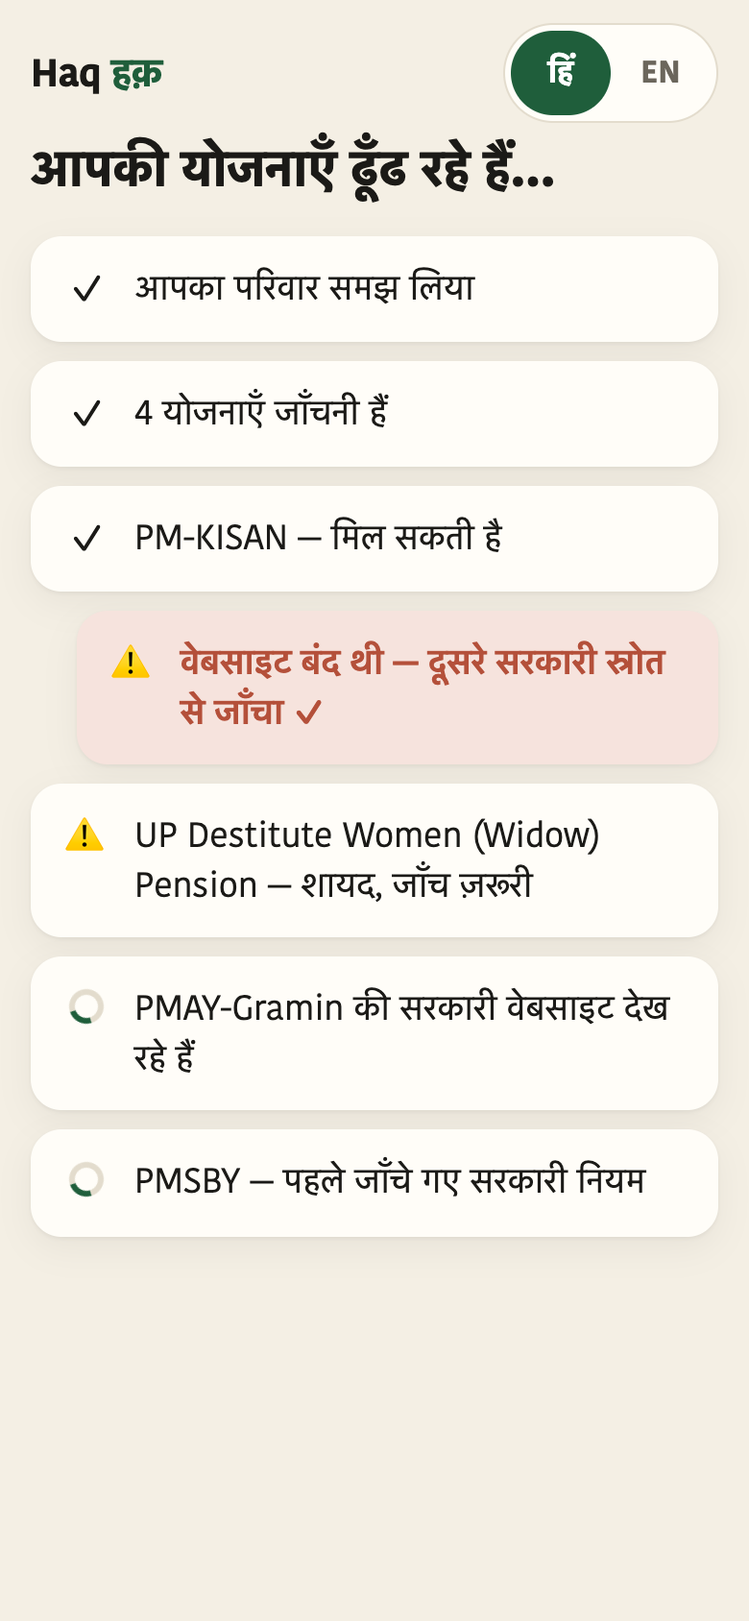
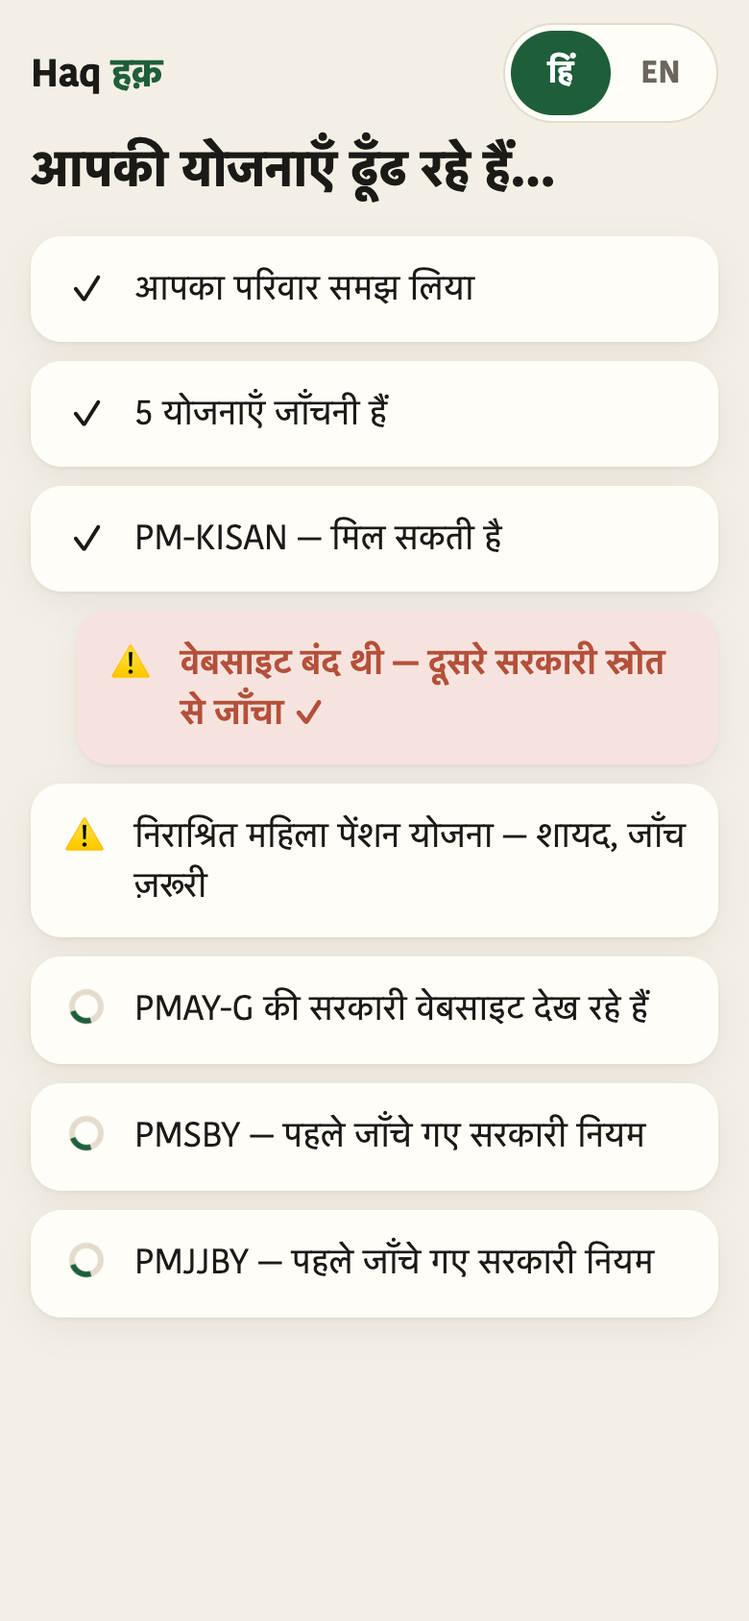
Results polish: 'up to' headline, official Hindi scheme names, insurance as Protection
1. Headline leads with the total including likely-eligible, with the split
   always shown underneath:
   hi: 'आपके परिवार का ₹X/साल तक का हक़ बाकी है' + '₹A पक्का · ₹B जाँच के बाद'
   en: 'Up to ₹X/year your family is owed' + '₹A confirmed · ₹B after checks'
   Read-aloud says the same sentence and split. The spoken-summary
   instructions use the same framing.
2. Official Hindi scheme names in Hindi mode on cards and in the working
   checklist (catalog.DISPLAY_NAMES, e.g. निराश्रित महिला पेंशन योजना);
   acronyms kept as-is (PM-KISAN, PMAY-G, PMSBY, PMJJBY).
3. PMSBY / PMJJBY are costs, not money owed: excluded from every total
   (write() and, for results saved earlier, recomputed in present._view), and
   shown in a separate सुरक्षा / Protection section with premium and cover
   (₹20/yr -> ₹2 lakh accident; ₹436/yr -> ₹2 lakh life, per jansuraksha.gov.in).

Re-screenshotted all screens in both languages (stub server, no API calls).
Layout report: 15/15 clean, 0 console errors.

Entire-Checkpoint: 01M4MRDNJT1A5BZPXY4EEYW53W

Changed region(s): [[0.0308, 0.5853, 0.9538, 0.8009], [0.1846, 0.4929, 0.9231, 0.5545], [0.1846, 0.2464, 0.2154, 0.2773]]

diff --git a/static/index.html b/static/index.html
@@ -120,7 +120,17 @@
   .headline .l { font-size: 20px; opacity: .92; }
   .headline .amt { font-size: 52px; font-weight: 800; line-height: 1.05; margin: 6px 0; letter-spacing: -.02em; font-family: var(--font-en); }
   .headline .l2 { font-size: 20px; }
-  .headline .more { margin-top: 10px; font-size: 17px; background: rgba(255,255,255,.14); border-radius: 12px; padding: 8px 12px; }
+  .headline .amt .unit { font-size: 22px; font-weight: 700; margin-left: 4px; letter-spacing: 0; }
+  .headline .split { margin-top: 12px; font-size: 18px; font-weight: 600; background: rgba(255,255,255,.14);
+                     border-radius: 12px; padding: 8px 12px; }
+  .section-head { margin: 30px 4px 4px; }
+  .section-head h2 { margin: 0; font-size: 24px; }
+  .section-head p { margin: 4px 0 0; color: var(--muted); font-size: 16px; }
+  .cover { display: flex; flex-wrap: wrap; gap: 8px; align-items: center; margin: 12px 0 6px; }
+  .cover .pay, .cover .get { border-radius: 12px; padding: 6px 12px; font-weight: 700; font-size: 18px; font-family: var(--font-en); }
+  html[lang="hi"] .cover .pay, html[lang="hi"] .cover .get { font-family: var(--font-hi); }
+  .cover .pay { background: var(--warn-soft); color: var(--warn); }
+  .cover .get { background: var(--accent-soft); color: var(--accent); }
   .headline .speak { position: absolute; top: 16px; right: 16px; background: rgba(255,255,255,.18); color: #fff; }
   .scheme { margin-top: 14px; padding: 18px; }
   .scheme-top { display: flex; gap: 12px; align-items: flex-start; }
@@ -220,10 +230,10 @@
   <section class="screen" id="s-results">
     <div class="headline">
       <button class="speak" id="sayHeadline" aria-label="read aloud">🔊</button>
-      <div class="l" data-t="missingA"></div>
-      <div class="amt" id="amt"></div>
-      <div class="l2" data-t="missingB"></div>
-      <div class="more hidden" id="more"></div>
+      <div class="l" id="headA"></div>
+      <div class="amt"><span id="amt"></span><span class="unit" id="amtUnit"></span></div>
+      <div class="l2" id="headB"></div>
+      <div class="split" id="split"></div>
     </div>
     <div id="cards"></div>
     <div class="bottom">
@@ -245,8 +255,11 @@ const T = {
     listening: "सुन रहा हूँ…", heardNothing: "सुनाई नहीं दिया — फिर से दबाइए", noMic: "इस ब्राउज़र में माइक नहीं चलता — नीचे लिखिए",
     whoLives: "घर में कौन-कौन है? छूकर जोड़िए", income: "परिवार की कमाई",
     working: "आपकी योजनाएँ ढूँढ रहे हैं…", retry: "फिर से कोशिश करें",
-    missingA: "आपका परिवार हर साल", missingB: "नहीं ले रहा है",
-    moreIf: (x) => `+ ${x} तक और, जाँच के बाद`,
+    headA: "आपके परिवार का", unit: "/साल तक", headB: "का हक़ बाकी है",
+    split: (a, b) => b ? `${a} पक्का · ${b} जाँच के बाद` : `${a} पक्का`,
+    protection: "सुरक्षा", protectionNote: "बीमा: आप छोटा प्रीमियम भरते हैं, मुसीबत में परिवार को पैसा मिलता है। यह ऊपर की रकम में नहीं जुड़ा।",
+    premium: (x) => `आप भरें: ${x}/साल`, cover: (x, kind) => `${kind === "life" ? "जीवन बीमा" : "दुर्घटना बीमा"}: ${x}`,
+    sayProtection: (c, pay, get) => `${c.name}. ${c.member} के लिए. ${pay}. ${get}. ${c.benefit}. आवेदन: ${c.where_to_apply}`,
     ask: "🎤 कुछ पूछना है?", newFamily: "नया परिवार", step: (i, n) => `सवाल ${i} / ${n}`,
     confirmed: "✓ पक्का (सरकारी स्रोत)", check: "जाँच ज़रूरी:", have: "पहले से मिल रही",
     perYear: "/ साल", whereApply: "कहाँ आवेदन करें", openSite: "वेबसाइट खोलें →", source: "सरकारी स्रोत ↗",
@@ -263,7 +276,7 @@ const T = {
     checks: { income_limit: "आय सीमा", income: "परिवार की कमाई", ration_card: "राशन कार्ड", area: "गाँव या शहर",
               house: "घर कच्चा या पक्का", land: "ज़मीन किसके नाम", lpg: "गैस कनेक्शन", age: "उम्र", disability: "विकलांगता प्रमाण पत्र" },
     sayCard: (c, money, check) => `${c.name}. ${c.member} के लिए. ${money ? money + ' हर साल. ' : ''}${check}${c.benefit}. ज़रूरी कागज़: ${c.documents.join(', ')}. आवेदन: ${c.where_to_apply}`,
-    sayHeadline: (x) => `आपका परिवार हर साल ${x} नहीं ले रहा है.`,
+    sayHeadline: (x, a, b) => `आपके परिवार का ${x} प्रति साल तक का हक़ बाकी है. ${b ? `${a} पक्का, ${b} जाँच के बाद.` : `${a} पक्का.`}`,
   },
   en: {
     promise: "Government schemes your family is owed",
@@ -273,8 +286,11 @@ const T = {
     listening: "Listening…", heardNothing: "Didn't catch that — tap again", noMic: "Mic not available in this browser — type below",
     whoLives: "Who lives in your home? Tap to add", income: "Family income",
     working: "Finding your schemes…", retry: "Try again",
-    missingA: "Your family is missing", missingB: "every year",
-    moreIf: (x) => `+ up to ${x} more once checked`,
+    headA: "Up to", unit: "/year", headB: "your family is owed",
+    split: (a, b) => b ? `${a} confirmed · ${b} after checks` : `${a} confirmed`,
+    protection: "Protection", protectionNote: "Insurance: you pay a small premium, your family gets money if something happens. Not counted in the amount above.",
+    premium: (x) => `You pay: ${x}/year`, cover: (x, kind) => `${kind === "life" ? "Life cover" : "Accident cover"}: ${x}`,
+    sayProtection: (c, pay, get) => `${c.name}. For ${c.member}. ${pay}. ${get}. ${c.benefit}. Apply: ${c.where_to_apply}`,
     ask: "🎤 Have a question?", newFamily: "New family", step: (i, n) => `Question ${i} of ${n}`,
     confirmed: "✓ Confirmed (official source)", check: "Check needed:", have: "Already receiving",
     perYear: "/ year", whereApply: "Where to apply", openSite: "Open website →", source: "Official source ↗",
@@ -291,7 +307,7 @@ const T = {
     checks: { income_limit: "income limit", income: "family income", ration_card: "ration card", area: "village or town",
               house: "house type", land: "land ownership", lpg: "gas connection", age: "age", disability: "disability certificate" },
     sayCard: (c, money, check) => `${c.name}. For ${c.member}. ${money ? money + ' every year. ' : ''}${check}${c.benefit}. Documents: ${c.documents.join(', ')}. Apply: ${c.where_to_apply}`,
-    sayHeadline: (x) => `Your family is missing ${x} every year.`,
+    sayHeadline: (x, a, b) => `Up to ${x} a year your family is owed. ${b ? `${a} confirmed, ${b} after checks.` : `${a} confirmed.`}`,
   },
 };
 const ROLES = [
@@ -525,15 +541,34 @@ $("retry").onclick = async () => { await api(`/api/households/${hid}/run`, {}); 
 const rupee = (n) => "₹" + Number(n || 0).toLocaleString("en-IN");
 function docIcon(t) { const m = DOC_ICONS.find(([re]) => re.test(t)); return m ? m[1] : "📄"; }
 function checkText(c) { return c.check_needed.map(k => L().checks[k] || k).join(", "); }
-function headlineSpeech(r) { return L().sayHeadline(rupee(r.total_missing_inr_per_year)) + " " + r.summary; }
+const lakh = (n) => n >= 100000 ? `₹${(n / 100000).toLocaleString("en-IN")} ${lang === "en" ? "lakh" : "लाख"}` : rupee(n);
+function totals(r) {
+  const a = r.total_missing_inr_per_year || 0, b = r.likely_extra_inr_per_year || 0;
+  return { a, b, x: r.owed_up_to_inr_per_year ?? a + b };
+}
+// Read-aloud says exactly what the headline shows.
+function headlineSpeech(r) { const t = totals(r); return L().sayHeadline(rupee(t.x), rupee(t.a), t.b ? rupee(t.b) : ""); }
 function renderResults(r, say) {
   lastResult = r; show("s-results");
-  $("amt").textContent = rupee(r.total_missing_inr_per_year);
-  const more = r.likely_extra_inr_per_year || 0;
-  $("more").classList.toggle("hidden", !more); $("more").textContent = more ? L().moreIf(rupee(more)) : "";
+  const t = totals(r);
+  $("headA").textContent = L().headA; $("headB").textContent = L().headB;
+  $("amt").textContent = rupee(t.x); $("amtUnit").textContent = L().unit;
+  $("split").textContent = L().split(rupee(t.a), t.b ? rupee(t.b) : "");
   const box = $("cards"); box.innerHTML = "";
-  if (!r.cards.length) { const p = document.createElement("div"); p.className = "card scheme"; p.textContent = L().none; box.appendChild(p); }
-  r.cards.forEach(c => {
+  const money = r.cards.filter(c => c.category !== "protection"), protection = r.cards.filter(c => c.category === "protection");
+  if (!money.length) { const p = document.createElement("div"); p.className = "card scheme"; p.textContent = L().none; box.appendChild(p); }
+  money.forEach(c => box.appendChild(schemeCard(c)));
+  if (protection.length) {
+    const head = document.createElement("div"); head.className = "section-head";
+    const h = document.createElement("h2"); h.textContent = "🛡 " + L().protection;
+    const p = document.createElement("p"); p.textContent = L().protectionNote;
+    head.append(h, p); box.appendChild(head);
+    protection.forEach(c => box.appendChild(schemeCard(c)));
+  }
+  $("answer").classList.add("hidden");
+  if (say) speak(headlineSpeech(r));
+}
+function schemeCard(c) {
     const el = document.createElement("article"); el.className = "card scheme";
     const top = document.createElement("div"); top.className = "scheme-top";
     const em = document.createElement("div"); em.className = "emoji"; em.textContent = c.emoji;
@@ -541,8 +576,17 @@ function renderResults(r, say) {
     const h3 = document.createElement("h3"); h3.textContent = c.name;
     const who = document.createElement("div"); who.className = "who"; who.textContent = `${L().forWho} ${c.member}`;
     head.append(h3, who); top.append(em, head); el.appendChild(top);
-    const money = c.annual_value_inr ? `${rupee(c.annual_value_inr)} ${L().perYear}` : "";
+    const prot = c.category === "protection" && c.protection;
+    const money = !prot && c.annual_value_inr ? `${rupee(c.annual_value_inr)} ${L().perYear}` : "";
     if (money) { const m = document.createElement("div"); m.className = "money" + (c.counts_toward_total ? "" : " soft"); m.textContent = money; el.appendChild(m); }
+    let pay = "", get = "";
+    if (prot) {
+      pay = L().premium(rupee(prot.premium_inr_per_year)); get = L().cover(lakh(prot.cover_inr), prot.kind);
+      const cv = document.createElement("div"); cv.className = "cover";
+      const a = document.createElement("span"); a.className = "pay"; a.textContent = pay;
+      const b = document.createElement("span"); b.className = "get"; b.textContent = get;
+      cv.append(a, b); el.appendChild(cv);
+    }
     const badge = document.createElement("div");
     if (c.already_receiving) { badge.className = "badge have"; badge.textContent = L().have; }
     else if (c.verification === "confirmed") { badge.className = "badge ok"; badge.textContent = L().confirmed; }
@@ -567,11 +611,9 @@ function renderResults(r, say) {
     ap.onclick = () => where.classList.toggle("hidden");
     const src = document.createElement("a"); src.className = "src"; src.href = c.official_url; src.target = "_blank"; src.rel = "noopener";
     src.textContent = L().source; el.appendChild(src);
-    say.onclick = () => speak(L().sayCard(c, money, c.verification === "confirmed" ? "" : `${L().check} ${checkText(c)}. `));
-    box.appendChild(el);
-  });
-  $("answer").classList.add("hidden");
-  if (say) speak(headlineSpeech(r));
+    say.onclick = () => speak(prot ? L().sayProtection(c, pay, get)
+                                   : L().sayCard(c, money, c.verification === "confirmed" ? "" : `${L().check} ${checkText(c)}. `));
+    return el;
 }
 $("sayHeadline").onclick = () => lastResult && speak(headlineSpeech(lastResult));
 $("askBtn").onclick = () => listen(async (text) => {

diff --git a/scripts/screenshots.js b/scripts/screenshots.js
@@ -94,7 +94,7 @@ const sleep = (ms) => new Promise(r => setTimeout(r, ms));
     if (more) await page.evaluate(() => document.querySelectorAll('#qOptions .option')[1].click());
 
     await page.waitForSelector('#s-work.on');
-    await page.waitForFunction(() => document.querySelectorAll('#steps .step').length >= 7, { timeout: 15000 });
+    await page.waitForFunction(() => document.querySelectorAll('#steps .step').length >= 8, { timeout: 15000 });
     await shot(page, `${lang}-05-working`);
 
     await fetch(`${BASE}/stub/release`, { method: 'POST' });

diff --git a/haq/catalog.py b/haq/catalog.py
@@ -231,7 +231,48 @@ SCHEMES = [
     },
 ]
 
+# Names shown to families. Hindi uses the scheme's official Hindi name; well-known acronyms stay as they are.
+DISPLAY_NAMES = {
+    "pm_kisan": ("PM-KISAN", "PM-KISAN"),
+    "pmjay": ("आयुष्मान भारत (PM-JAY)", "Ayushman Bharat (PM-JAY)"),
+    "ayushman_vay_vandana": ("आयुष्मान वय वंदना योजना", "Ayushman Vay Vandana"),
+    "pmay_g": ("PMAY-G", "PMAY-G"),
+    "pmuy": ("प्रधानमंत्री उज्ज्वला योजना", "PM Ujjwala Yojana"),
+    "pmmvy": ("प्रधानमंत्री मातृ वंदना योजना", "PM Matru Vandana Yojana"),
+    "nfsa_ration": ("राष्ट्रीय खाद्य सुरक्षा योजना (राशन कार्ड)", "NFSA ration card"),
+    "pm_sym": ("प्रधानमंत्री श्रम योगी मान-धन योजना", "PM Shram Yogi Maandhan"),
+    "pm_kisan_maandhan": ("प्रधानमंत्री किसान मान-धन योजना", "PM Kisan Maandhan"),
+    "pmjjby": ("PMJJBY", "PMJJBY"),
+    "pmsby": ("PMSBY", "PMSBY"),
+    "eshram": ("ई-श्रम कार्ड", "e-Shram card"),
+    "pmfby": ("प्रधानमंत्री फसल बीमा योजना", "PM Fasal Bima Yojana"),
+    "pm_vishwakarma": ("पीएम विश्वकर्मा योजना", "PM Vishwakarma"),
+    "nsp_scholarship": ("राष्ट्रीय छात्रवृत्ति पोर्टल (NSP)", "National Scholarship Portal (NSP)"),
+    "up_old_age_pension": ("वृद्धावस्था पेंशन योजना", "UP Old Age Pension"),
+    "up_widow_pension": ("निराश्रित महिला पेंशन योजना", "UP Destitute Women Pension"),
+    "up_divyang_pension": ("दिव्यांग पेंशन योजना", "UP Divyang Pension"),
+    "up_kanya_sumangala": ("मुख्यमंत्री कन्या सुमंगला योजना", "Mukhyamantri Kanya Sumangala Yojana"),
+    "up_shadi_anudan": ("शादी अनुदान योजना", "Shadi Anudan Yojana"),
+    "up_samuhik_vivah": ("मुख्यमंत्री सामूहिक विवाह योजना", "Mukhyamantri Samuhik Vivah Yojana"),
+    "up_scholarship": ("पूर्वदशम एवं दशमोत्तर छात्रवृत्ति (उ.प्र.)", "UP Pre/Post-Matric Scholarship"),
+    "up_bocw": ("उ.प्र. भवन एवं अन्य सन्निर्माण कर्मकार कल्याण बोर्ड", "UP BOCW construction workers' welfare"),
+    "up_abhyudaya": ("मुख्यमंत्री अभ्युदय योजना", "Mukhyamantri Abhyudaya Yojana"),
+    "up_digishakti": ("स्वामी विवेकानंद युवा सशक्तिकरण योजना", "Swami Vivekanand Yuva Sashaktikaran (DigiShakti)"),
+}
+
+# Insurance the family pays a small premium for: shown as protection, never added to the money owed.
+# Premium and cover as published on jansuraksha.gov.in.
+PROTECTION = {
+    "pmsby": {"premium_inr_per_year": 20, "cover_inr": 200000, "kind": "accident"},
+    "pmjjby": {"premium_inr_per_year": 436, "cover_inr": 200000, "kind": "life"},
+}
+
 BY_ID = {s["id"]: s for s in SCHEMES}
+
+
+def display_name(scheme_id: str, lang: str) -> str | None:
+    names = DISPLAY_NAMES.get(scheme_id)
+    return (names[0] if lang == "hi" else names[1]) if names else None
 _ALIASES = {a: s["id"] for s in SCHEMES for a in s["aliases"]}
 
 

diff --git a/haq/agent.py b/haq/agent.py
@@ -573,6 +573,8 @@ def write(profile: dict, research: dict, usage: Usage, hid: str) -> dict:
                 intake.assumed_facts_for(rec["scheme_id"], profile)
             likely = bool(check_needed)
             seed = catalog.BY_ID.get(rec["scheme_id"], {})
+            # Insurance costs the family a premium: shown as protection, never added to money owed.
+            counts = rec["counts_toward_total"] and rec["scheme_id"] not in catalog.PROTECTION
             already = rec["scheme_id"] in received
             cards.append({
                 "scheme_id": rec["scheme_id"],
@@ -588,8 +590,8 @@ def write(profile: dict, research: dict, usage: Usage, hid: str) -> dict:
                 "label_hi": LIKELY_LABEL_HI if likely else "सरकारी स्रोत से पक्का",
                 "unconfirmed_rules": rec.get("unconfirmed_rules", []),
                 "check_needed": check_needed,
-                "counts_toward_total": rec["counts_toward_total"] and not already and not likely,
-                "counts_toward_likely_total": rec["counts_toward_total"] and not already and likely,
+                "counts_toward_total": counts and not already and not likely,
+                "counts_toward_likely_total": counts and not already and likely,
                 "already_receiving": already,
                 "documents_hi": rec["documents_hi"],
                 "where_to_apply_hi": rec["where_to_apply_hi"],
@@ -608,10 +610,11 @@ def write(profile: dict, research: dict, usage: Usage, hid: str) -> dict:
         summary = structured(
             usage, model=FAST_MODEL, effort="low", max_tokens=4000, schema=SUMMARY_SCHEMA,
             system="Write a warm spoken summary in very simple Hindi (Devanagari) for a non-literate family. "
-                   "3-5 short sentences, max 70 words. Say the total rupees per year they are missing, name the top "
-                   "2-3 schemes and for whom, and say to take the listed documents to the CSC / Jan Seva Kendra. "
-                   "Schemes with status 'likely' are NOT confirmed: say they are 'शायद मिल सकती है, आय सीमा की "
-                   "जाँच करवाएँ' and never add them to the confirmed total. "
+                   "3-5 short sentences, max 70 words. Start with: 'आपके परिवार का <confirmed + likely> प्रति साल "
+                   "तक का हक़ बाकी है, <confirmed> पक्का और <likely> जाँच के बाद.' Then name the top 2-3 schemes and "
+                   "for whom, and say to take the listed documents to the CSC / Jan Seva Kendra. Schemes with status "
+                   "'likely' still need a check (say 'जाँच ज़रूरी'). Insurance (PMSBY, PMJJBY) is protection the family "
+                   "pays a small premium for: never call it money they are owed. "
                    "Write numbers as words a Hindi speaker would say (e.g. 'बारह हज़ार रुपये'). No English.",
             user=json.dumps({"confirmed_total_inr_per_year": total, "likely_extra_inr_per_year": likely_total,
                              "schemes": brief}, ensure_ascii=False),

diff --git a/scripts/ui_stub_server.py b/scripts/ui_stub_server.py
@@ -35,7 +35,7 @@ def fake_run(hid, resume=True):
         time.sleep(pause)
 
     ev("understood", members=3)
-    ev("planned", schemes=4)
+    ev("planned", schemes=5)
     ev("checking", scheme_id="pm_kisan", from_cache=False)
     ev("recovered", scheme_id="pm_kisan", requested="https://pmkisan.gov.in/",
        served_by="https://www.myscheme.gov.in/schemes/pm-kisan", fell_back=True)
@@ -44,9 +44,11 @@ def fake_run(hid, resume=True):
     ev("scheme_done", scheme_id="up_widow_pension", outcome="likely")
     ev("checking", scheme_id="pmay_g", from_cache=False)
     ev("checking", scheme_id="pmsby", from_cache=True)
+    ev("checking", scheme_id="pmjjby", from_cache=True)
     release.wait(timeout=120)          # hold here so the working screen can be captured
     ev("scheme_done", scheme_id="pmay_g", outcome="likely")
     ev("scheme_done", scheme_id="pmsby", outcome="confirmed")
+    ev("scheme_done", scheme_id="pmjjby", outcome="confirmed")
     ev("writing")
 
     def card(sid, emoji, name, member, ben, val, ver, chk, docs, counts, where, url):
@@ -72,6 +74,8 @@ def fake_run(hid, resume=True):
             card("pmsby", "🦺", "PMSBY", "father", "सिर्फ़ ₹20 सालाना में ₹2 लाख का दुर्घटना बीमा।", 0, "confirmed", [],
                  ["आधार कार्ड", "बैंक खाता", "मोबाइल नंबर"], False, "अपने बैंक की शाखा में फ़ॉर्म भरें।",
                  "https://jansuraksha.gov.in/"),
+            card("pmjjby", "🛡", "PMJJBY", "mother", "₹436 सालाना में ₹2 लाख का जीवन बीमा।", 0, "confirmed", [],
+                 ["आधार कार्ड", "बैंक खाता"], False, "अपने बैंक की शाखा में फ़ॉर्म भरें।", "https://jansuraksha.gov.in/"),
         ]}
     ev("done", pause=0)
     state.update_run(hid, rid, lambda r: r.update(result=result, status="done", stage="done"))
@@ -83,13 +87,15 @@ EN = {
     "benefit": ["₹6,000 every year in three instalments, straight to your bank account.",
                 "₹1,000 pension every month, straight to the bank.",
                 "₹1.2 lakh to help build a pucca house.",
-                "₹2 lakh accident cover for just ₹20 a year."],
+                "₹2 lakh accident cover for just ₹20 a year.",
+                "₹2 lakh life cover for ₹436 a year."],
     "docs": [["Aadhaar card", "Bank passbook", "Khatauni (land record)"],
              ["Aadhaar card", "Husband's death certificate", "Income certificate", "Bank passbook"],
              ["Aadhaar card", "Ration card", "Bank passbook"],
-             ["Aadhaar card", "Bank account", "Mobile number"]],
+             ["Aadhaar card", "Bank account", "Mobile number"],
+             ["Aadhaar card", "Bank account"]],
     "where": ["Apply at the nearest Common Service Centre (CSC) or block office."] * 3
-             + ["Fill the form at your bank branch."],
+             + ["Fill the form at your bank branch."] * 2,
 }
 
 

diff --git a/haq/present.py b/haq/present.py
@@ -47,18 +47,17 @@ def _member_label(member: str, lang: str) -> str | None:
     return (ROLE_LABELS.get(full) or ROLE_LABELS.get(key) or {}).get(lang)
 
 
-def _scheme_name(card: dict) -> str:
-    seed = catalog.BY_ID.get(card["scheme_id"])
-    return seed["name_en"] if seed else card.get("name_hi") or card["scheme_id"]
-
-
 def _view(result: dict, lang: str, tr: dict | None) -> dict:
     cards = []
     for i, c in enumerate(result["cards"]):
         t = (tr or {}).get(i, {})
+        protection = catalog.PROTECTION.get(c["scheme_id"])
+        name = catalog.display_name(c["scheme_id"], lang) or (
+            c["name_hi"] if lang == "hi" else (t.get("scheme_name") or c["name_hi"]))
         cards.append({
-            "scheme_id": c["scheme_id"], "emoji": c["emoji"],
-            "name": _scheme_name(c) if catalog.BY_ID.get(c["scheme_id"]) else (t.get("scheme_name") or c["name_hi"]),
+            "scheme_id": c["scheme_id"], "emoji": c["emoji"], "name": name,
+            "category": "protection" if protection else "money",
+            "protection": protection,
             "member": _member_label(c["member"], lang) or t.get("member") or c["member"],
             "benefit": t.get("benefit") or c["benefit_hi"],
             "documents": t.get("documents") or c["documents_hi"],
@@ -66,12 +65,16 @@ def _view(result: dict, lang: str, tr: dict | None) -> dict:
             "annual_value_inr": c["annual_value_inr"],
             "verification": c["verification"],
             "check_needed": c.get("check_needed") or (["income_limit"] if c["verification"] == "likely" else []),
-            "counts_toward_total": c["counts_toward_total"],
+            "counts_toward_total": c["counts_toward_total"] and not protection,
+            "counts_toward_likely_total": c.get("counts_toward_likely_total", False) and not protection,
             "already_receiving": c["already_receiving"],
             "apply_url": c["apply_url"], "official_url": c["official_url"],
         })
-    return {"lang": lang, "total_missing_inr_per_year": result["total_missing_inr_per_year"],
-            "likely_extra_inr_per_year": result.get("likely_extra_inr_per_year", 0),
+    # Recomputed from the cards so insurance is never in the total, also for results saved earlier.
+    confirmed = sum(c["annual_value_inr"] for c in cards if c["counts_toward_total"])
+    likely = sum(c["annual_value_inr"] for c in cards if c["counts_toward_likely_total"])
+    return {"lang": lang, "total_missing_inr_per_year": confirmed, "likely_extra_inr_per_year": likely,
+            "owed_up_to_inr_per_year": confirmed + likely,
             "summary": (tr or {}).get("summary") or result["summary_hi"], "cards": cards}
 
 

diff --git a/app.py b/app.py
@@ -188,7 +188,8 @@ def get_household(hid: str, lang: Lang = "hi"):
     return {"id": hid, "neatlogs_session_id": hid, "lang": h.get("lang", "hi"),
             "interview_done": h["interview"]["done"], "run": progress, "result": result,
             "running": hid in _running,
-            "schemes": {s["id"]: {"name": s["name_en"], "emoji": s["emoji"]} for s in catalog.SCHEMES}}
+            "schemes": {s["id"]: {"name": catalog.display_name(s["id"], lang) or s["name_en"], "emoji": s["emoji"]}
+                        for s in catalog.SCHEMES}}
 
 
 @app.post("/api/households/{hid}/run")
